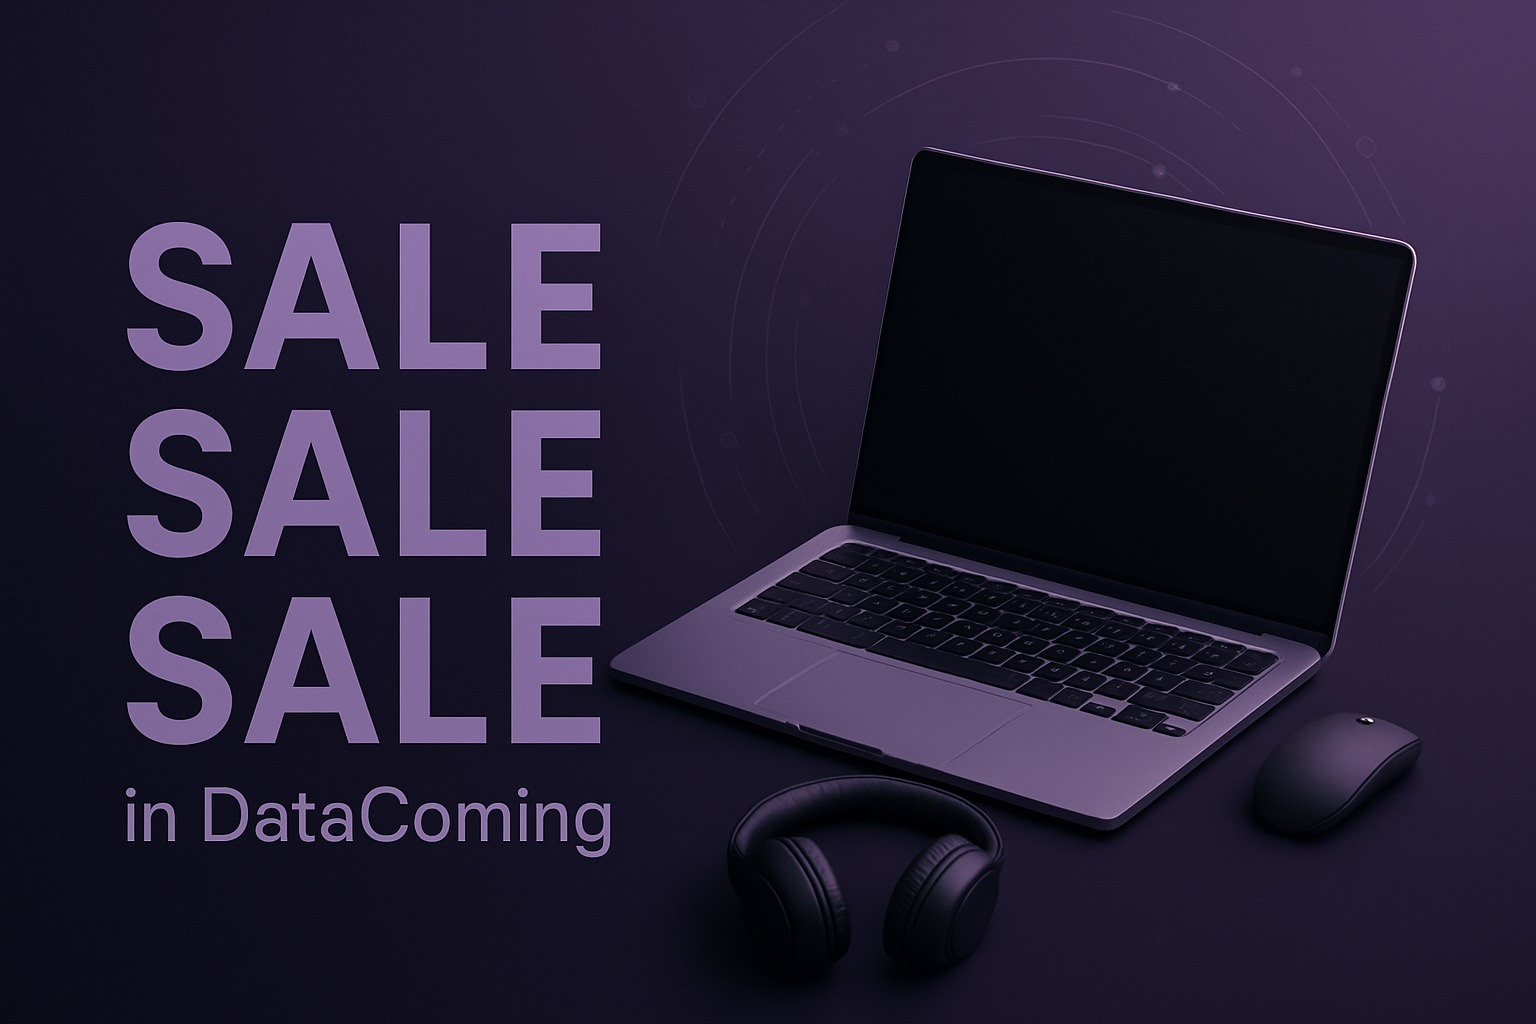
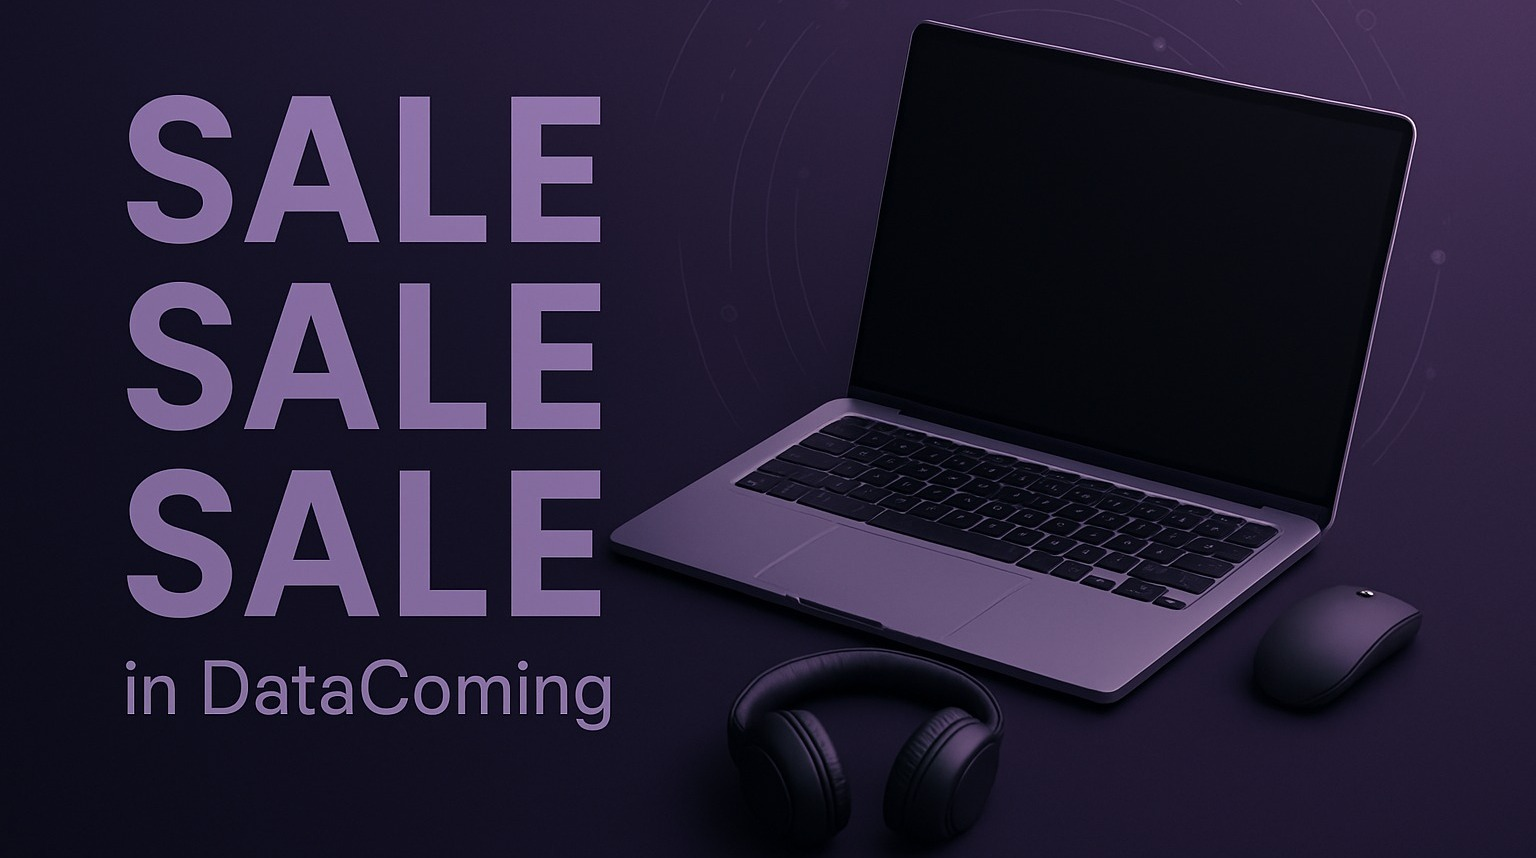
done

diff --git a/index.php b/index.php
@@ -248,7 +248,7 @@ if (isset($_SESSION['user_id'])) {
         </div>
     </div>
     <div class="static-mobile-image">
-        <img src="./img/imgg/epic-gamer-room-setup.jpg" style="width:100%; height: 300px; padding-top: 30px;">
+        <img src="./img/imgg/saledata.jpg" style="width:100%; height: 300px; padding-top: 30px;">
     </div>
     <br>
     <div class="feature">
